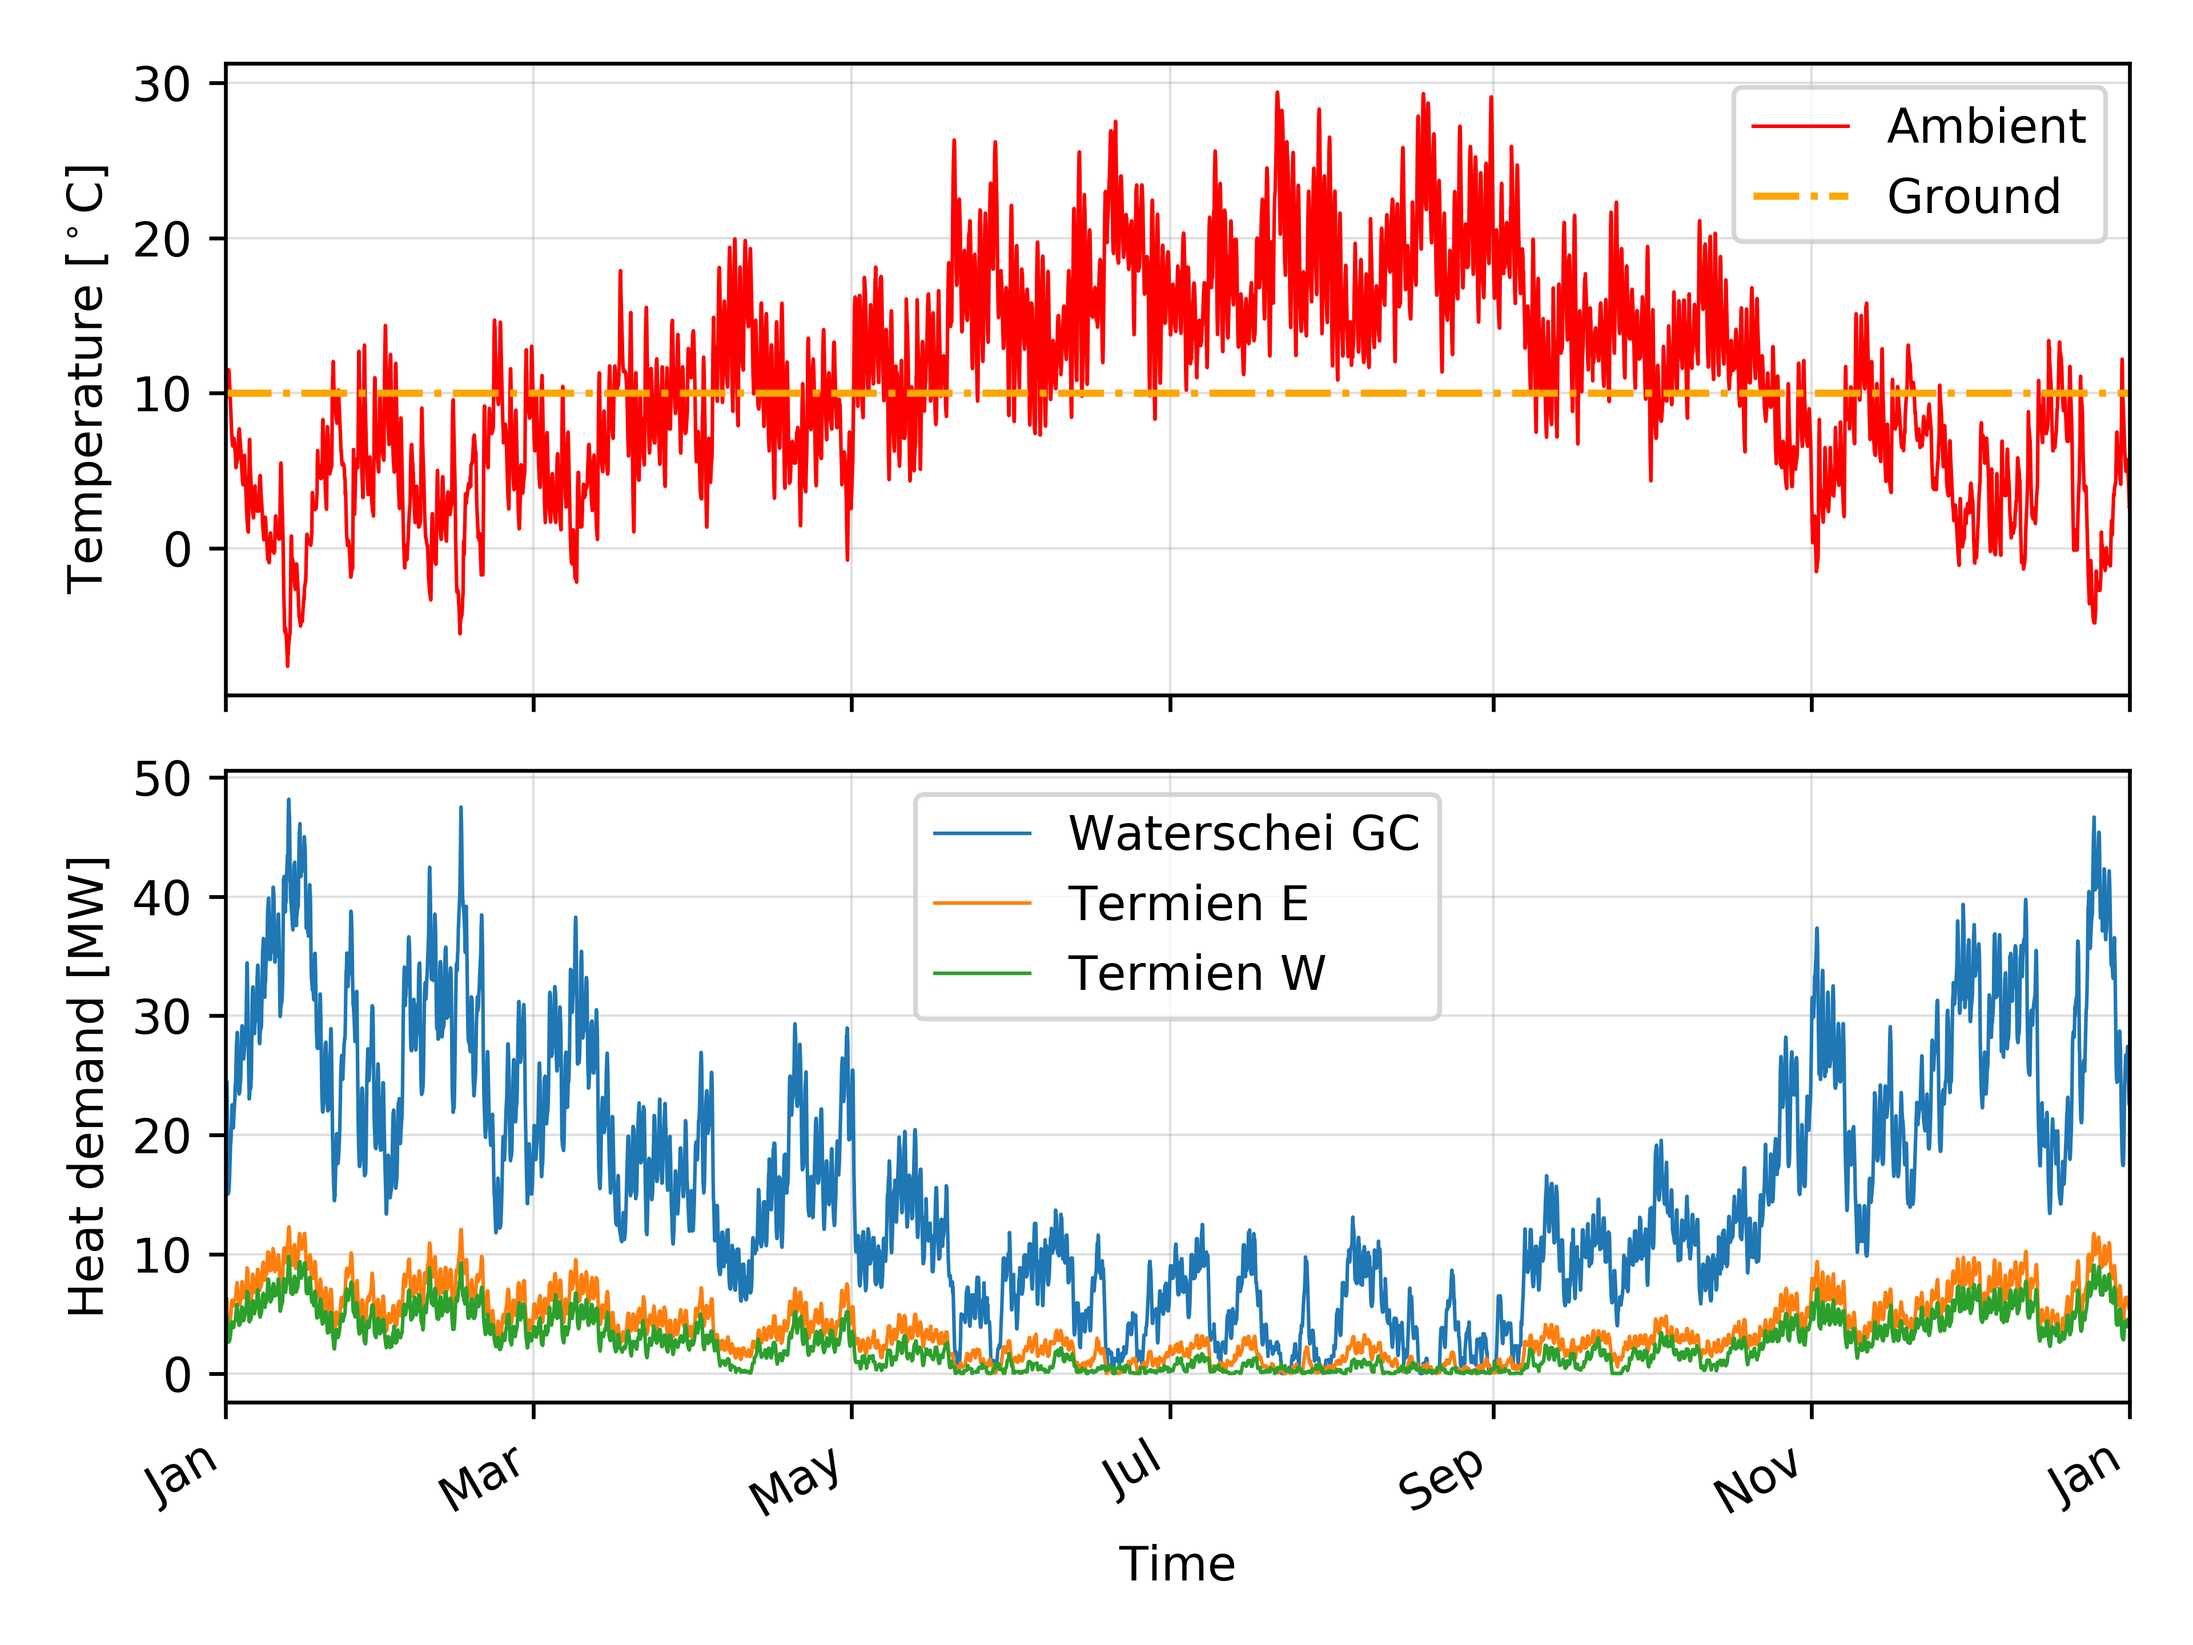
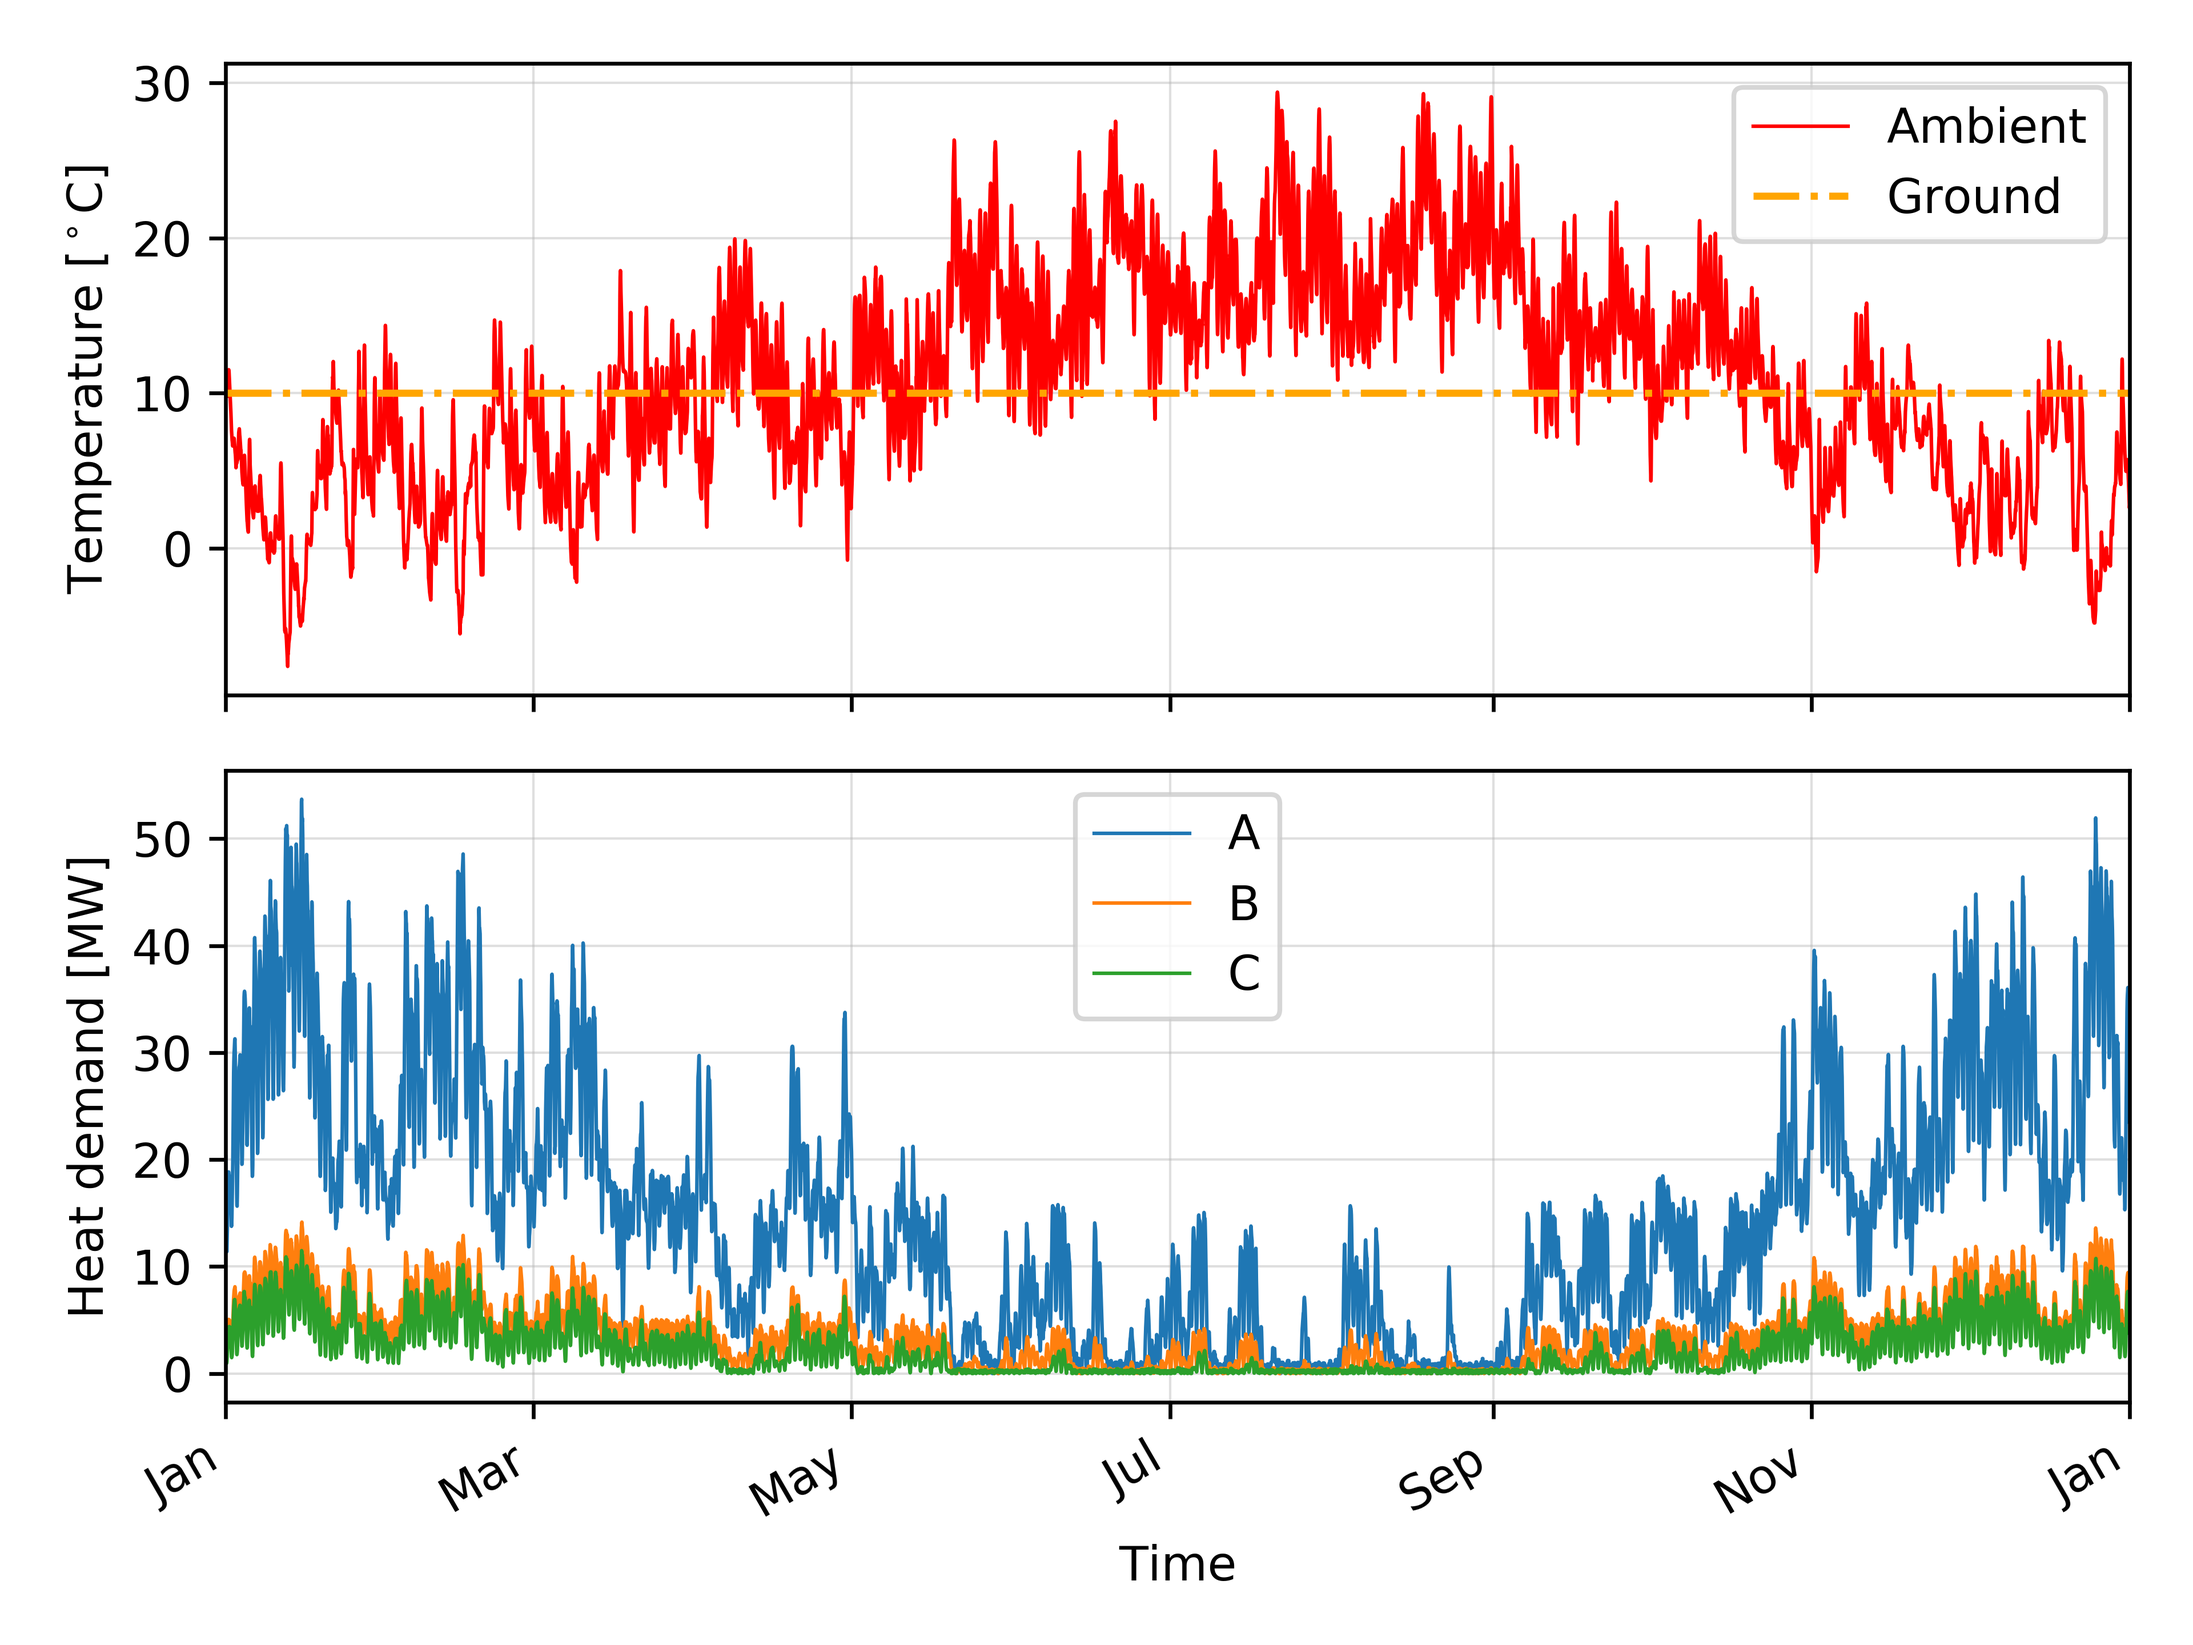
Change figures and rename neighbourhoods (Wat: A, TE: B, TW: C)

Changed region(s): [[0.0625, 0.4688, 0.9688, 0.8438], [0.4062, 0.4688, 0.6562, 0.625]]

diff --git a/misc/SDH_Conference_TestCases/InputData.py b/misc/SDH_Conference_TestCases/InputData.py
@@ -24,9 +24,9 @@ axs[0].set_ylabel('Temperature [$^\circ$C]')
 axs[0].legend(loc='best')
 
 # TODO markers
-axs[1].plot(headat['WaterscheiGarden'] / 1e6, label='Waterschei GC', linewidth=0.75)
-axs[1].plot(headat['TermienEast'] / 1e6, label='Termien E', linewidth=0.75)
-axs[1].plot(headat['TermienWest'] / 1e6, label='Termien W', linewidth=0.75)
+axs[1].plot(headat['WaterscheiGarden'] / 1e6, label='A', linewidth=0.75)
+axs[1].plot(headat['TermienEast'] / 1e6, label='B', linewidth=0.75)
+axs[1].plot(headat['TermienWest'] / 1e6, label='C', linewidth=0.75)
 axs[1].set_ylabel('Heat demand [MW]')
 
 axs[1].legend(loc='best')
@@ -36,9 +36,9 @@ for ax in axs:
 
 axs[-1].set_xlabel('Time')
 axs[-1].set_xlim(pd.Timestamp('20140101'), pd.Timestamp('20150101'))
-#axs[-1].xaxis.set_major_formatter(DateFormatter('%b'))
+axs[-1].xaxis.set_major_formatter(DateFormatter('%b'))
 fig.autofmt_xdate()
 fig.tight_layout()
-#fig.savefig('img/Inputdata.png', dpi=600)
+fig.savefig('img/Inputdata.png', dpi=600)
 
 plt.show()

diff --git a/misc/SDH_Conference_TestCases/CaseFuture.py b/misc/SDH_Conference_TestCases/CaseFuture.py
@@ -414,11 +414,11 @@ if __name__ == '__main__':
         'WaterscheiGarden': 'g'
     }
 
-    for node in ['SolarArray', 'TermienWest', 'WaterscheiGarden']:
+    for node in ['SolarArray', 'WaterscheiGarden', 'TermienWest']:
         axs[0].plot(stor[node]/1e6, ls[node], label=node, linewidth=1.5)
         axs[1].plot(soc[node], ls[node], linewidth=1.5)
-    axs[0].plot(stor['Production']/1e6, ls=':', color='black')
-    axs[0].legend(['STC Node', 'Termien W', 'Waterschei GC', 'Production'], loc='best', ncol=2)
+    axs[0].plot(stor['Production']/1e6, ls=':', color='black', lw=0.5)
+    axs[0].legend(['STC Node', 'B', 'C', 'Production'], loc='best', ncol=2)
     axs[0].set_title('Stored energy')
     axs[0].set_ylabel('Energy [GWh]')
 
